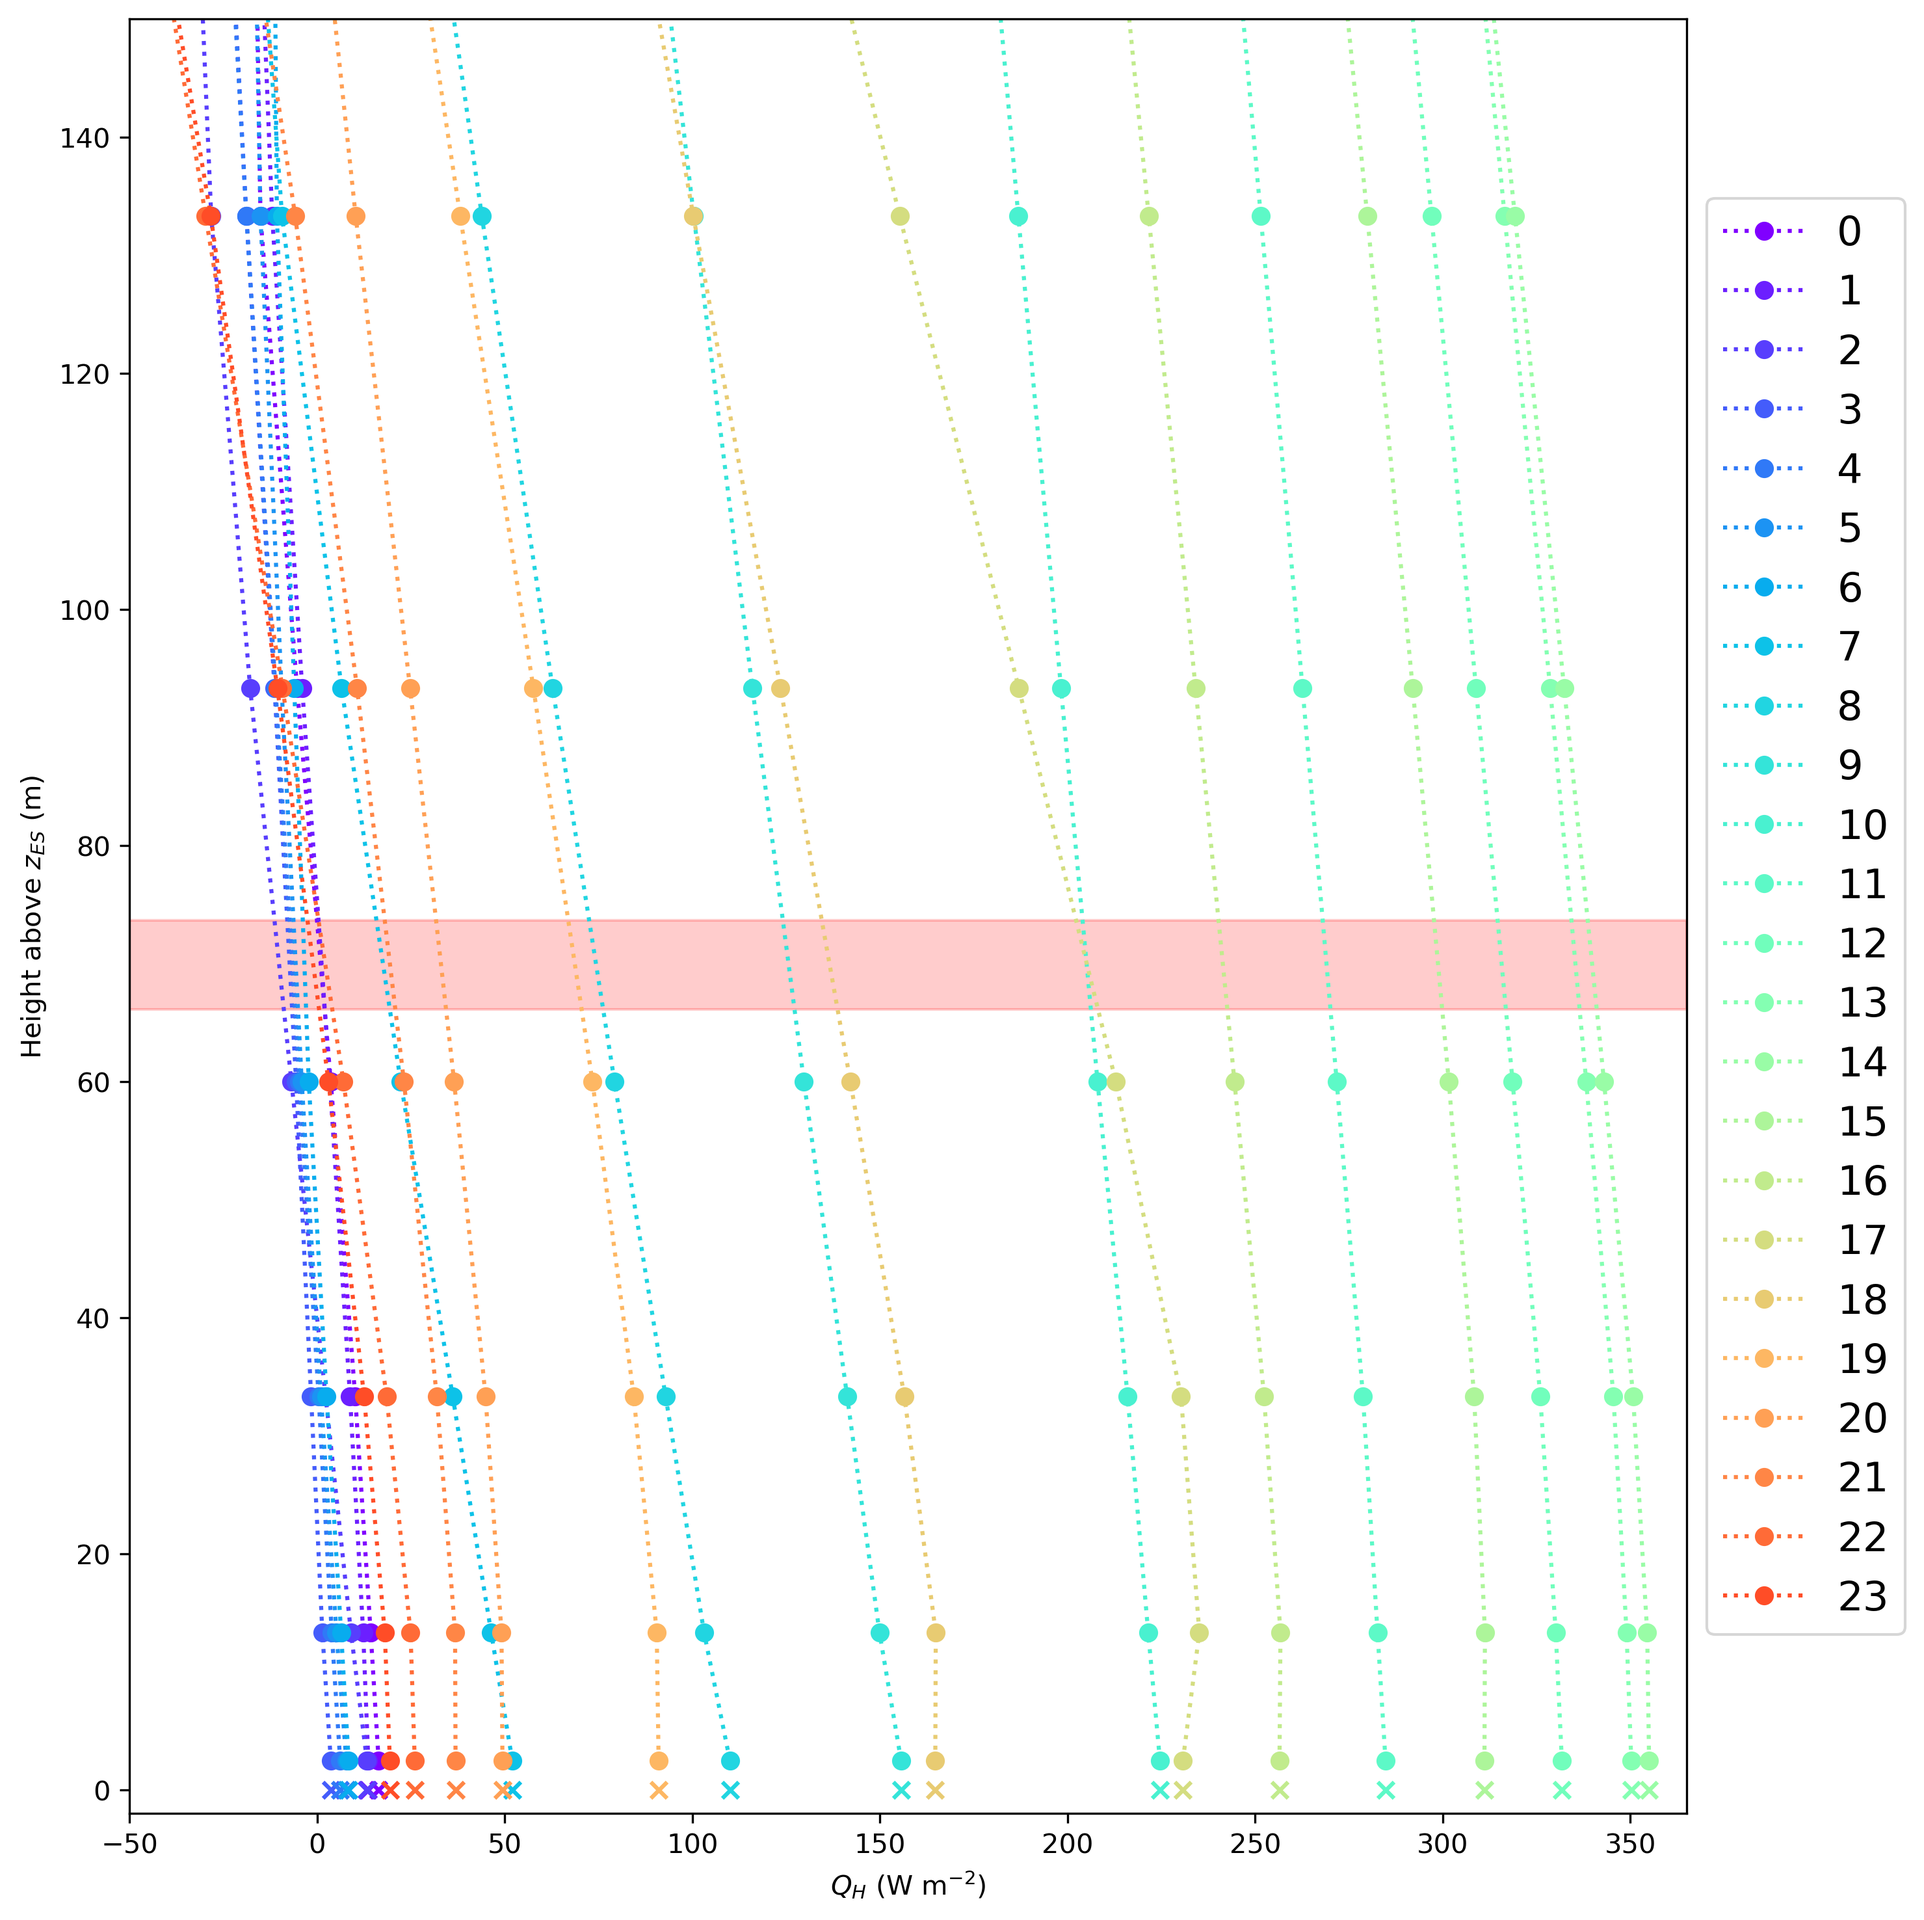
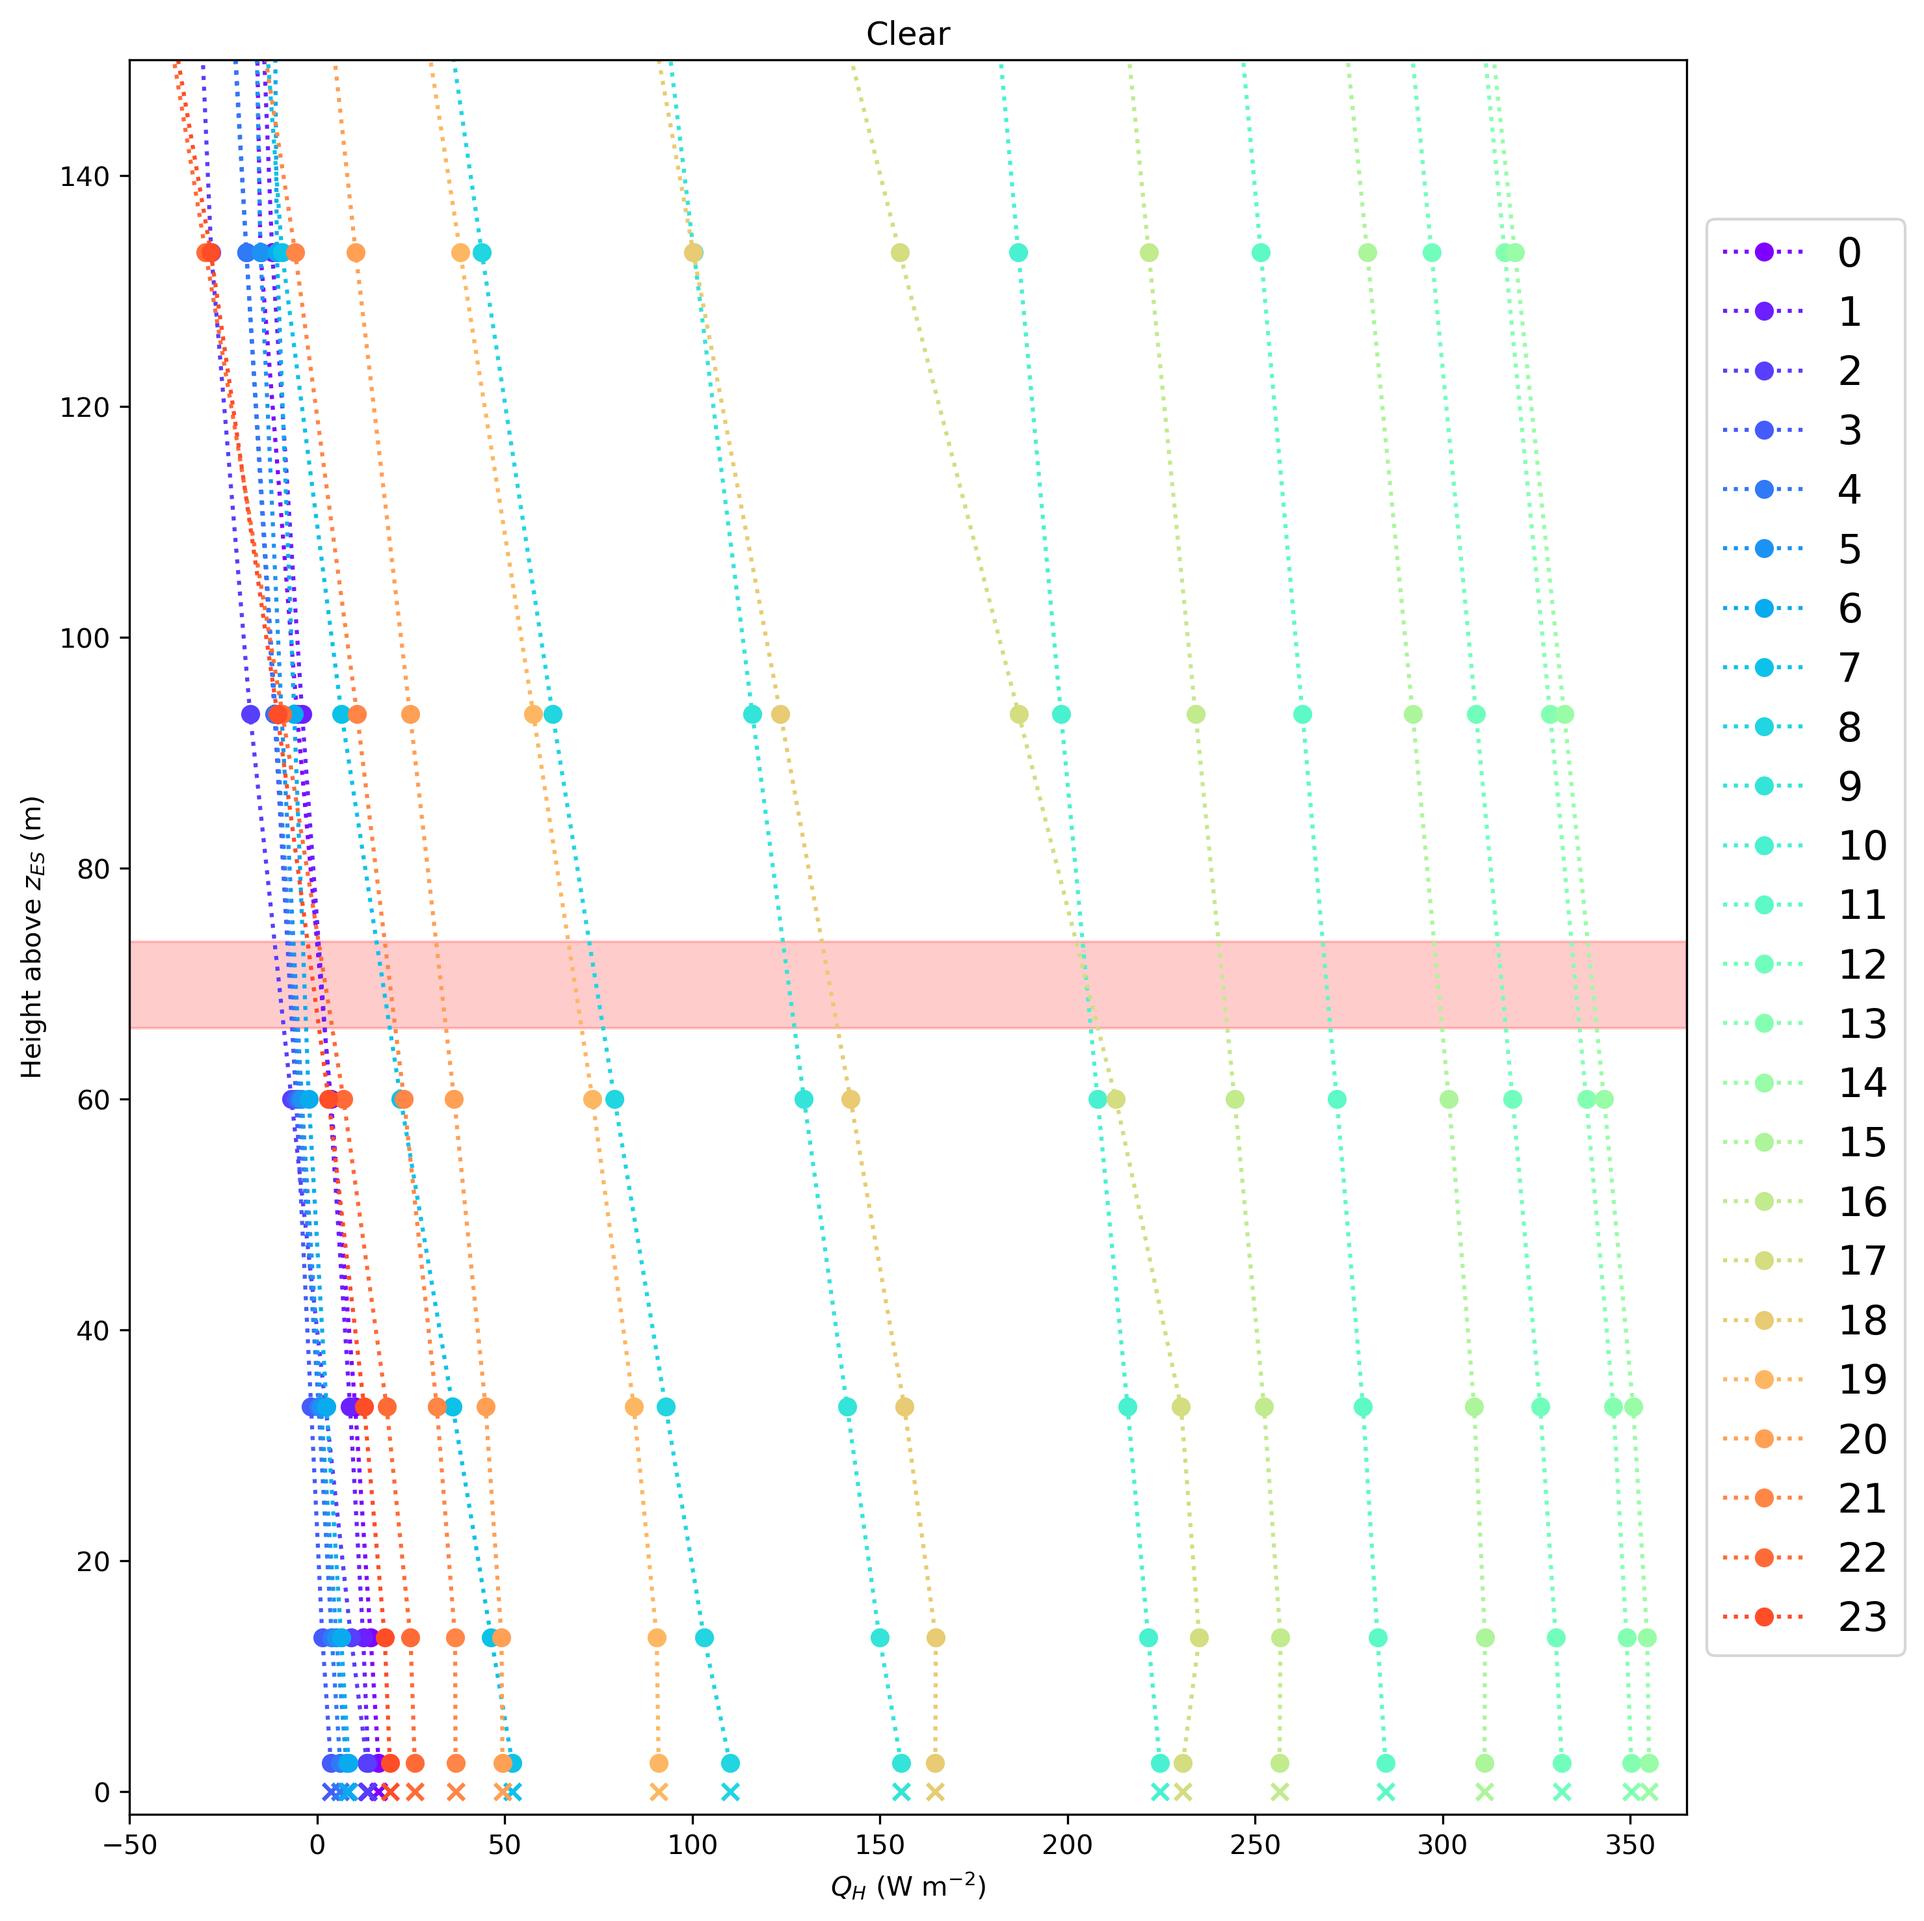
add title

diff --git a/scint_plots/model_levels/model_levels_funs.py b/scint_plots/model_levels/model_levels_funs.py
@@ -161,6 +161,14 @@ def create_model_height_plot(model_times,
     plt.ylabel("Height above $z_{ES}$ (m)")
     plt.xlabel('$Q_{H}$ (W m$^{-2}$)')
 
+    # set title
+    if obs_df.index[0].strftime('%j') == '126':
+        title_string = 'Clear'
+    else:
+        assert obs_df.index[0].strftime('%j') == '123'
+        title_string = 'Cloudy'
+    plt.title(title_string)
+
     plt.tight_layout()
 
     # save plot
